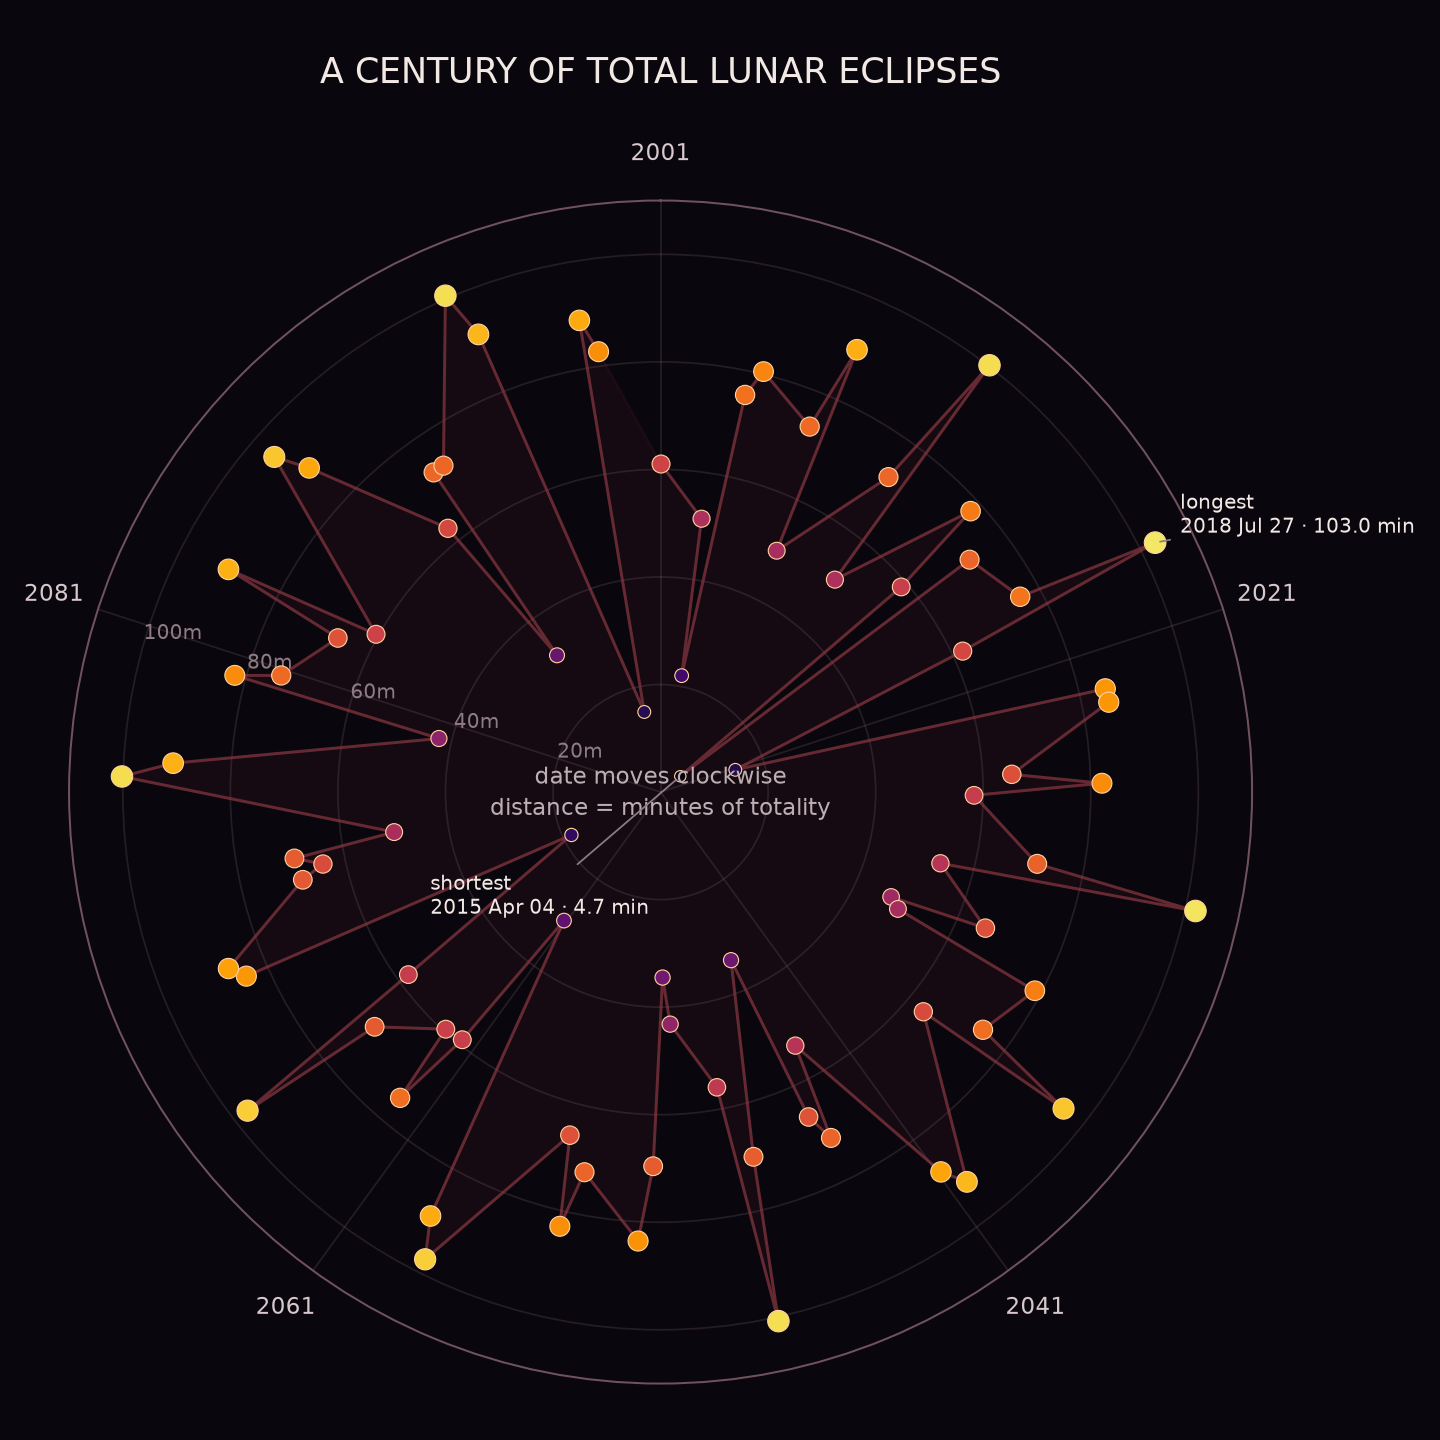
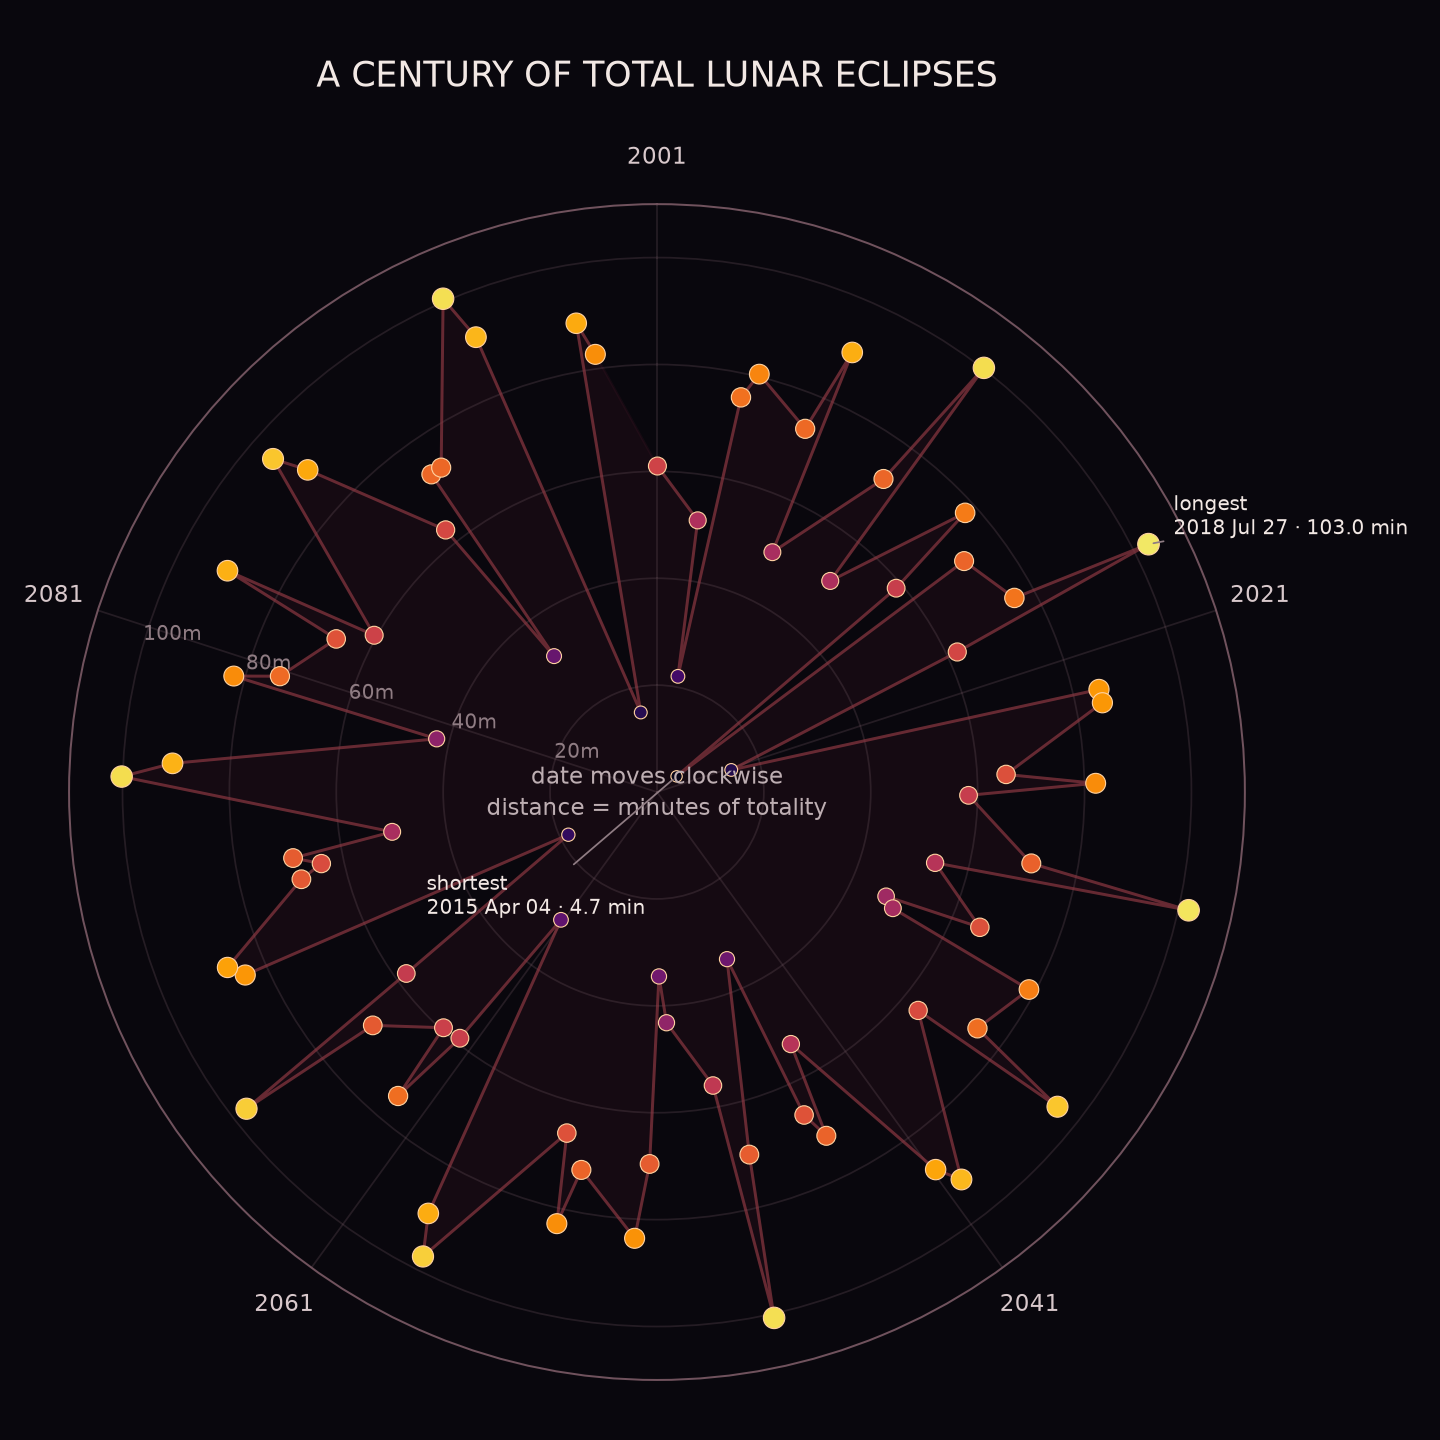
Print parsed data before plotting

diff --git a/plot.py b/plot.py
@@ -140,11 +140,15 @@ def draw_wheel(ax, eclipses, upto=None, show_extremes=True):
 
 
 def main():
+    rows = eclipse_rows(DATA)
     eclipses = total_eclipses(DATA)
 
-    print(f"{DATA.name}: {len(eclipse_rows(DATA))} eclipse records")
-    print(f"{len(eclipses)} total eclipses; first one: {eclipses[0]}")
-    print(f"duration is stored as {type(eclipses[0][1]).__name__}")
+    first_duration = eclipses[0][1]
+    print(f"{DATA.name}: {len(rows)} eclipse records")
+    print(f"first parsed row: {rows[0]}")
+    print(f"first totality duration: {first_duration}")
+    print(f"duration type: {type(first_duration).__name__}")
+    print(f"{len(eclipses)} total eclipses")
 
     fig, ax = plt.subplots(figsize=(8, 8), subplot_kw={"projection": "polar"})
     fig.patch.set_facecolor("#09070d")
@@ -154,6 +158,7 @@ def main():
     OUT.mkdir(exist_ok=True)
     fig.savefig(OUT / PICTURE, dpi=180)
     print(f"saved out/{PICTURE}")
+    plt.show()
 
 
 if __name__ == "__main__":
